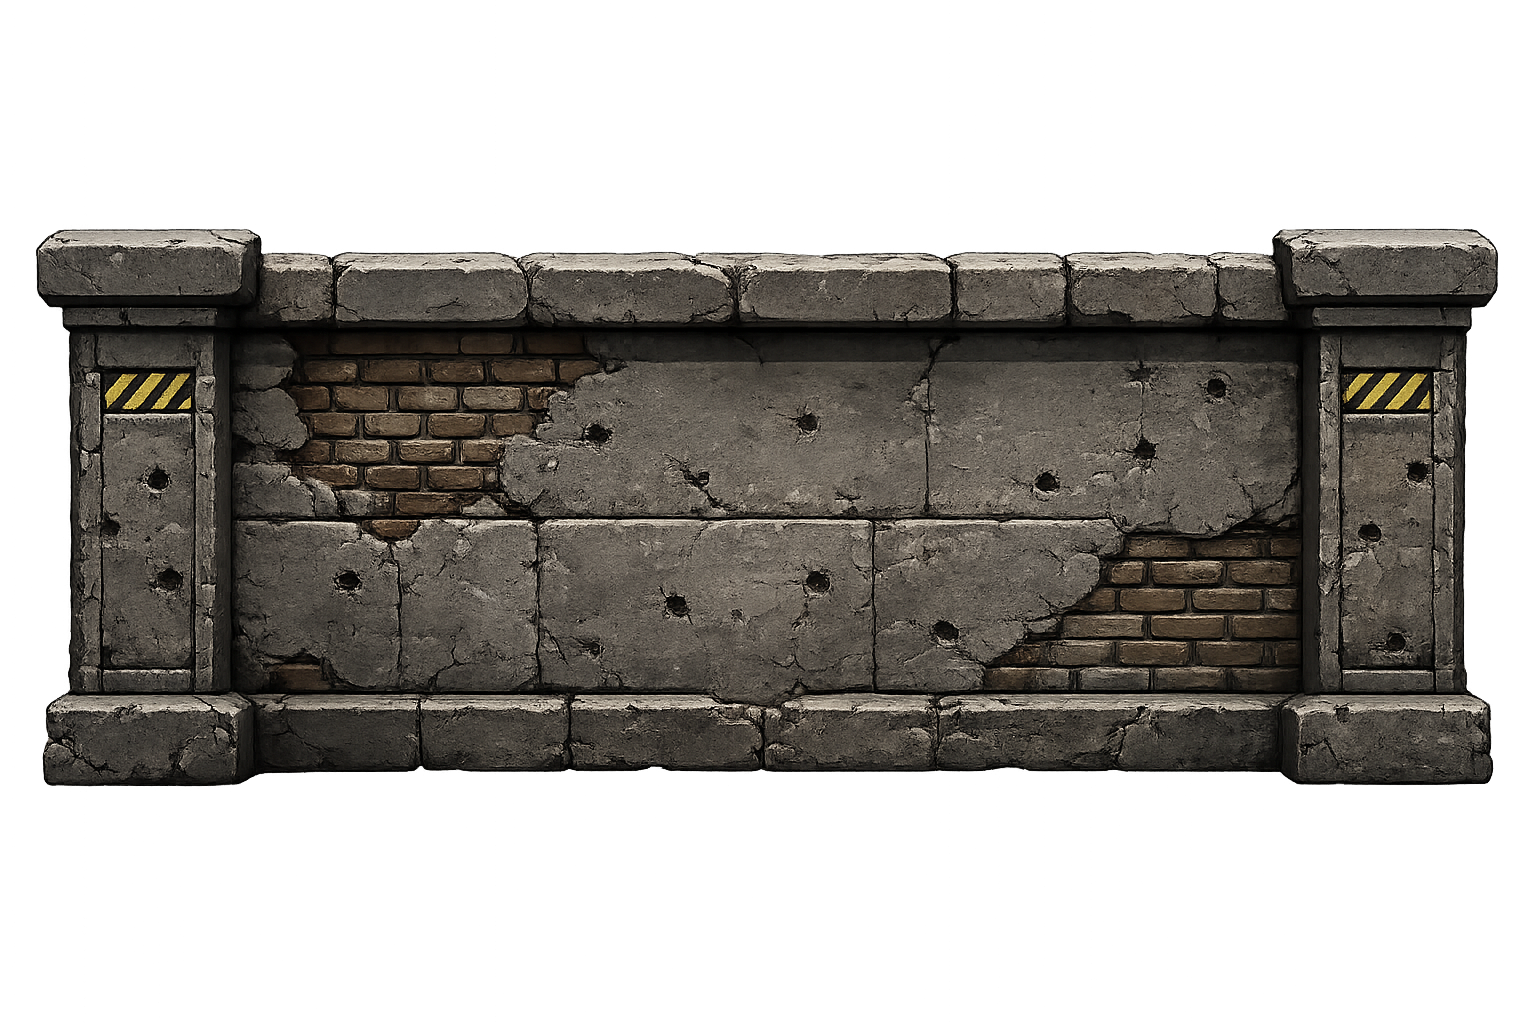
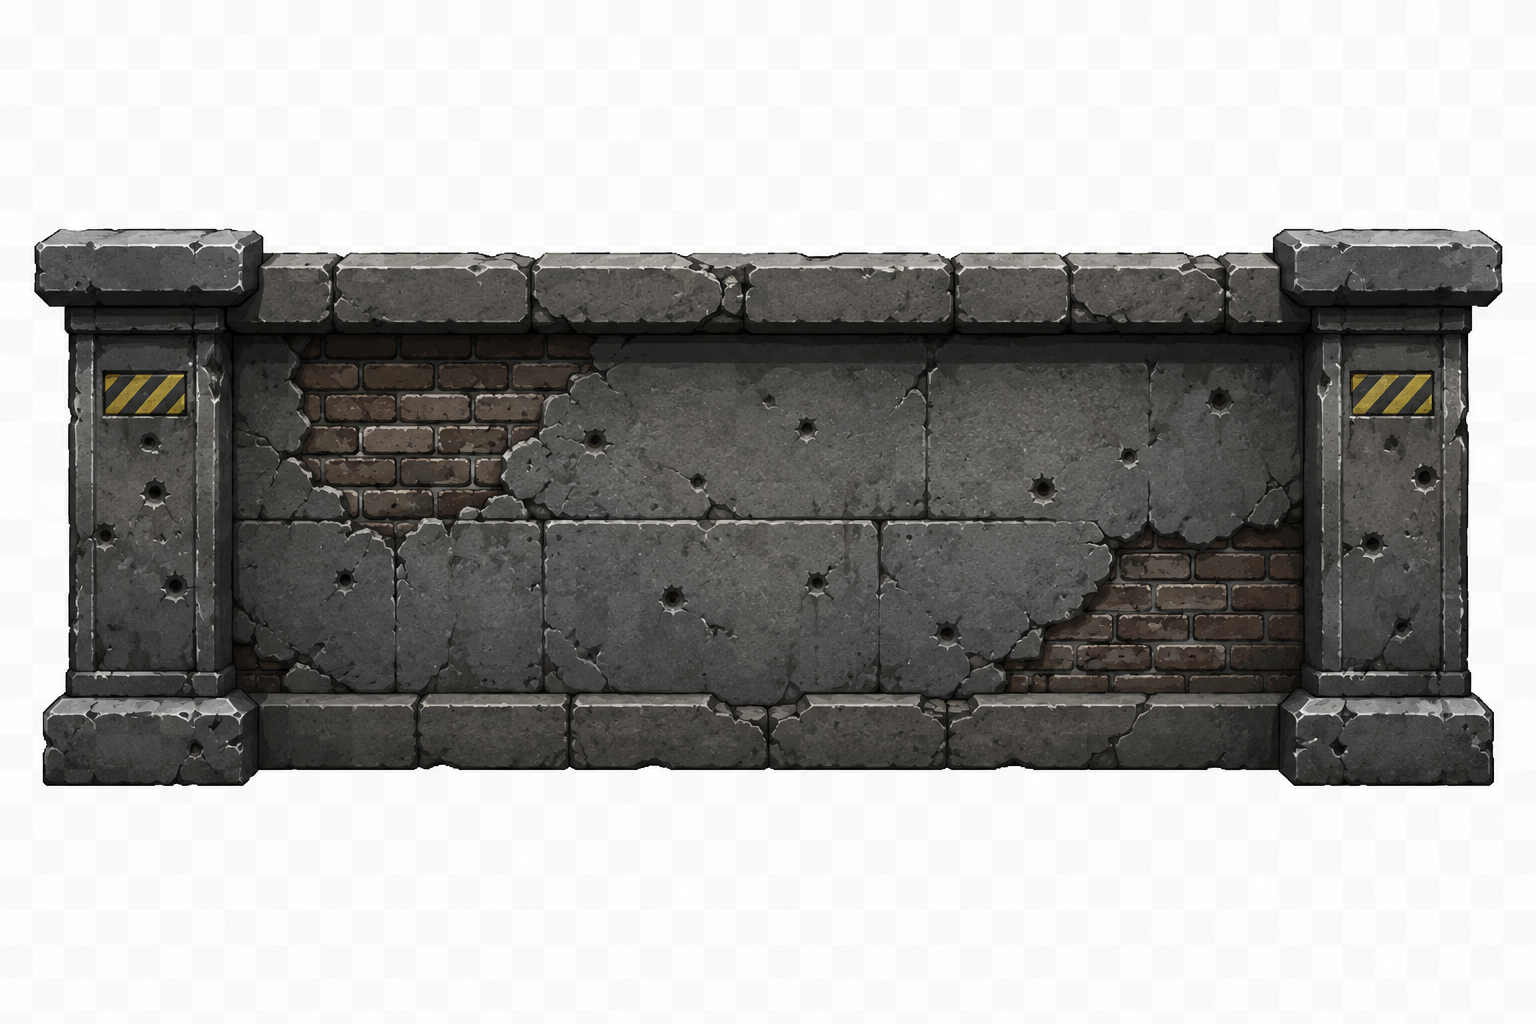
Fix Player.move() to handle wall collisions and movement

Changed region(s): [[0.0, 0.2188, 1.0, 0.7812]]

diff --git a/Mini It Project.py b/Mini It Project.py
@@ -279,7 +279,7 @@ class Enemy(pygame.sprite.Sprite):
 class Bullet(pygame.sprite.Sprite):
     def __init__(self, x, y, direction):
         super().__init__()
-        self.speed = 10
+        self.speed = 6
         self.image = bullet_img
         self.rect = self.image.get_rect(center=(x, y))
         self.direction = direction
@@ -411,7 +411,7 @@ def reset_game():
     enemy_bullet_group.empty()
     item_box_group.empty()
     #重新create character
-    player = Player(WIDTH//2, HEIGHT//2, 5, 100)
+    player = Player(WIDTH//2, HEIGHT//2, 3, 100)
     health_bar = HealthBar(10, 10, player.health, player.max_health)
     level = 1
     score = 0